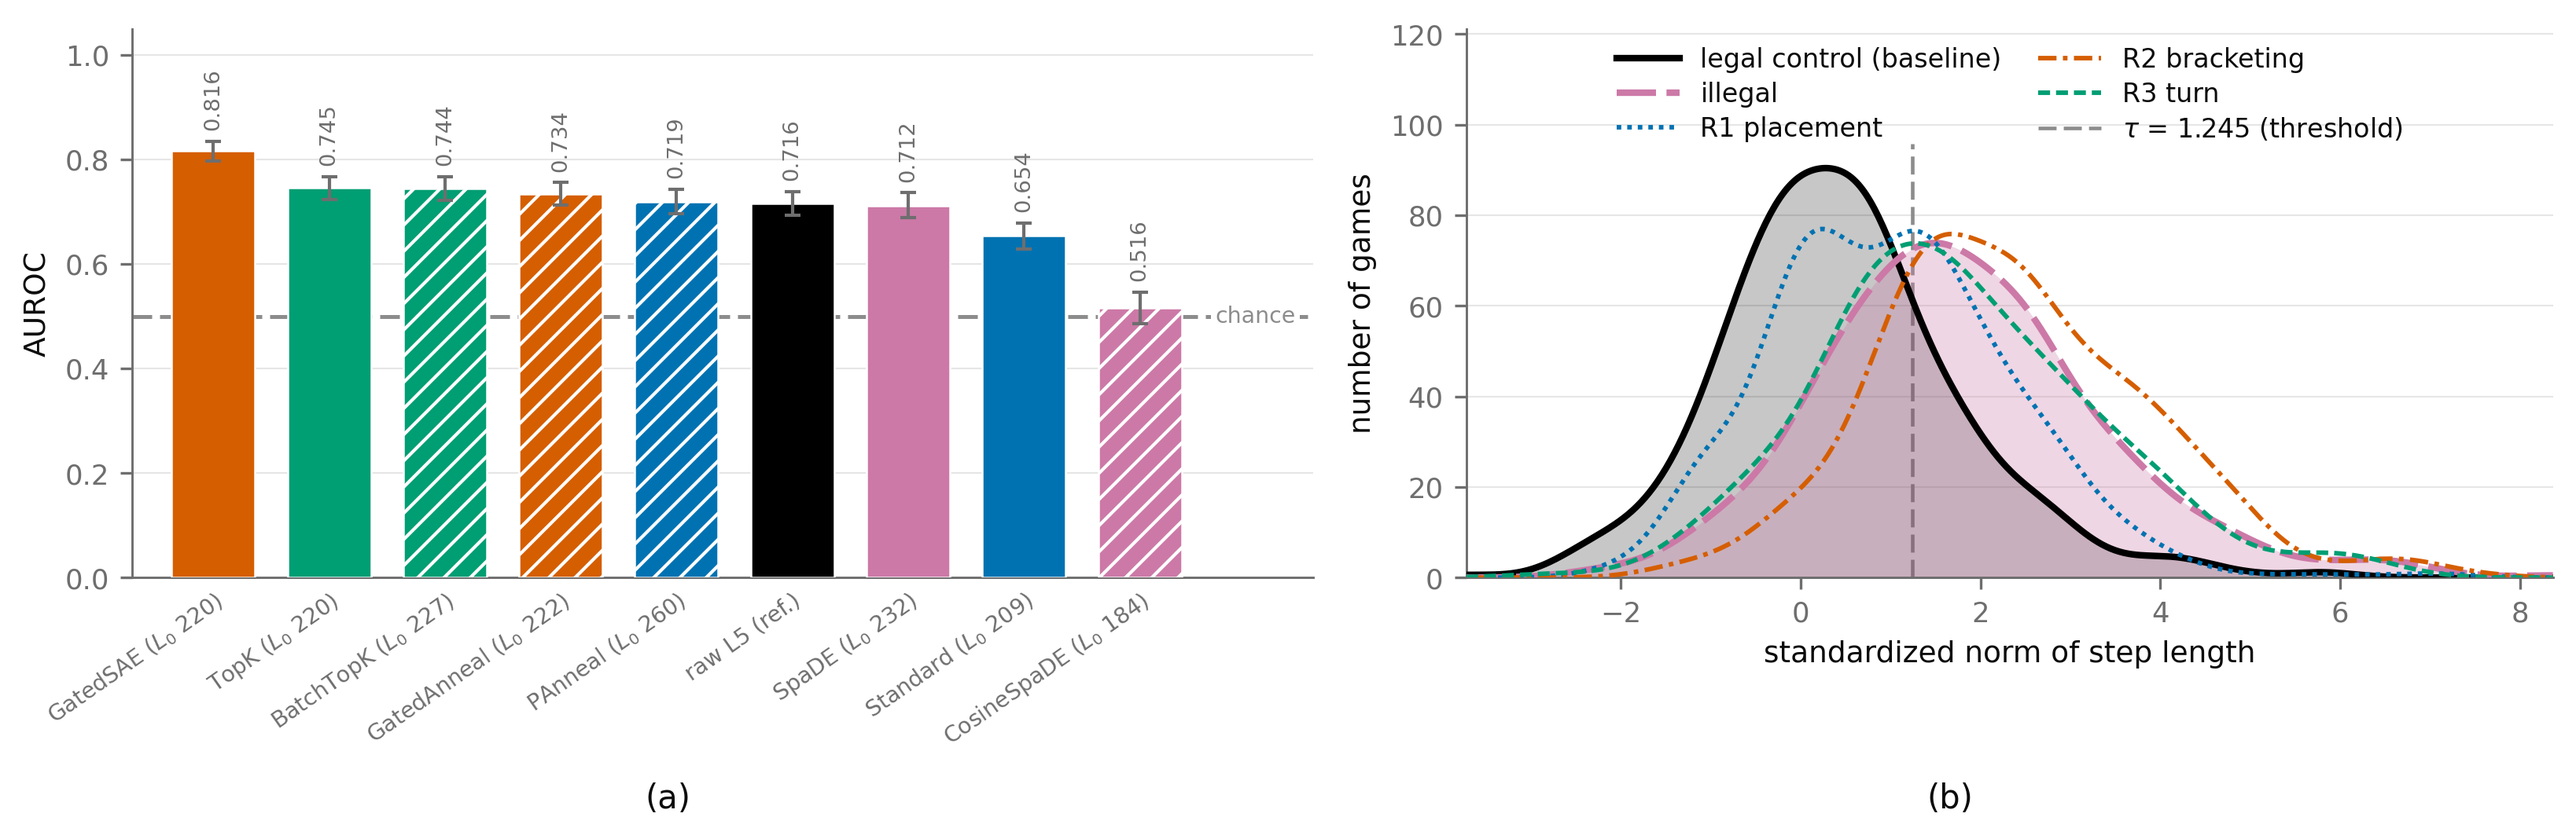
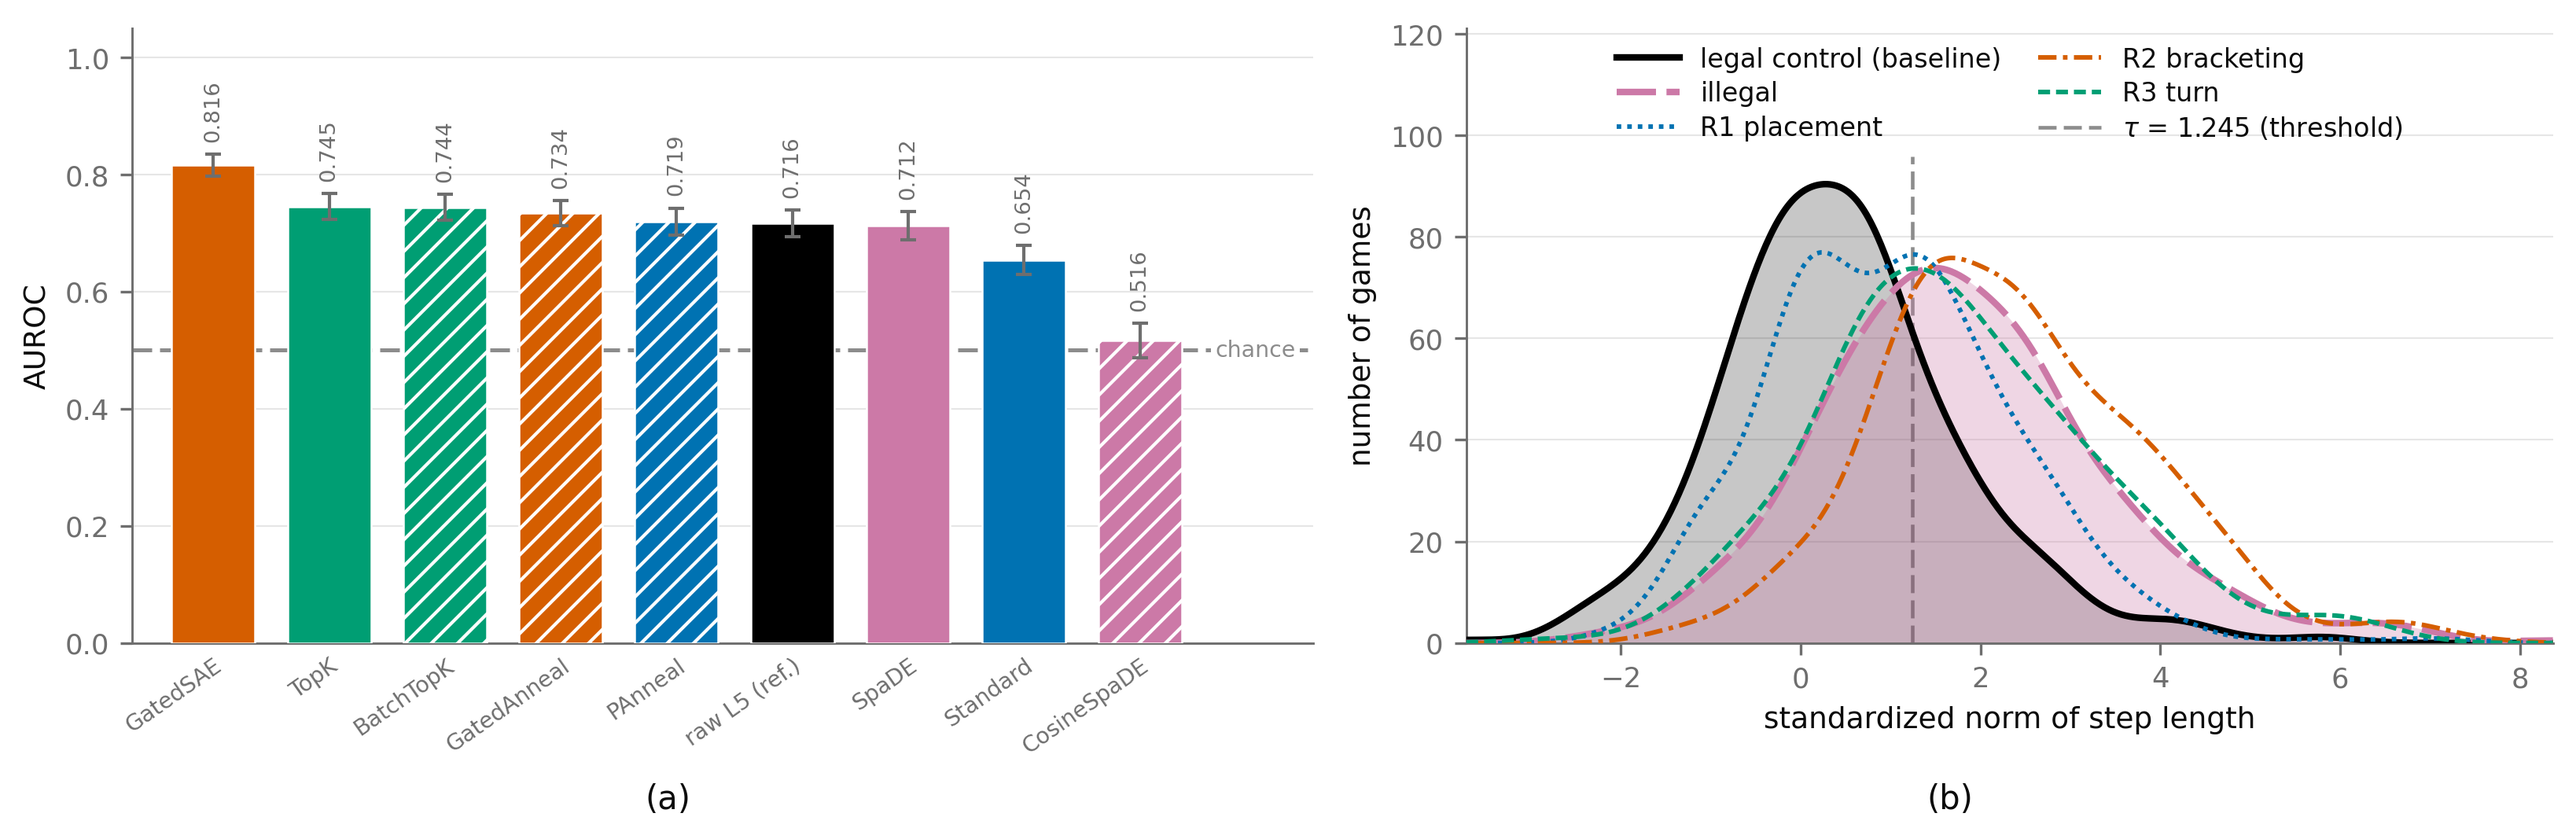
Drop the L0 from the L0-matched tick labels
Nine "(L_0 220)" suffixes on the x axis compete with the nine numbers the figure is
about, and they are the same number nine times to within the roster's 1.4x spread --
which is the point, so the axis is the wrong place to make it. Each pick's L0 is the
`l0` column of every _l0_matched CSV, and the changepoint README now tabulates the
eight beside the caveat that the match is on sparsity alone.

diff --git a/src/spade/l0_operating_point/roster.py b/src/spade/l0_operating_point/roster.py
@@ -54,10 +54,9 @@ L0 = {s.name: s.l0 for s in ROSTER}
 def styles() -> dict[str, dict]:
     """`SPACE_STYLE` plus one entry per L0-matched space.
 
-    The tick label carries the L0 the checkpoint was seated at, because "matched" is the
-    claim the figure makes and a reader has to be able to check how well it holds.
+    The tick label is the family name alone. Each pick's L0 is in `L0` here and in every
+    figure's CSV, which is where a reader checks how well "matched" holds -- on the axis it
+    is nine numbers competing with the nine the figure is actually about.
     """
-    matched = {s.name: {**SPACE_STYLE[s.family],
-                        "short": f"{SPACE_STYLE[s.family]['short']} ($L_0$ {s.l0:.0f})"}
-               for s in ROSTER}
+    matched = {s.name: dict(SPACE_STYLE[s.family]) for s in ROSTER}
     return SPACE_STYLE | matched

diff --git a/analysis/violation_divergence/changepoint_localization/README.md b/analysis/violation_divergence/changepoint_localization/README.md
@@ -147,7 +147,19 @@ bars is an architecture difference **and** an L0 difference, and this study cann
 one it measured -- note that the winner of the table above is the sparsest of the nine.
 `results/l0_operating_point/picks.csv` fixes that: one checkpoint per architecture, each the
 nearest-L0 member of its own grid to a shared target of L0 219.16, spanning 184-260 in
-practice.
+practice. The tick labels name the architecture only; the L0 each pick was seated at is the
+`l0` column of every `_l0_matched` CSV, and is:
+
+| pick | L0 | | pick | L0 |
+|---|---:|---|---|---:|
+| `standard/trainer25-v2` | 208.7 | | `BatchTopK-k220` | 226.7 |
+| `gated/trainer32` | 219.9 | | `SpaDE-lam0.001-gam0.005` | 232.1 |
+| `top_k/trainer_61` | 220.0 | | `p_anneal/trainer22` | 260.1 |
+| `gated_anneal/trainer25` | 221.7 | | `CosineSpaDE-beta1-gam0.05` | 183.8 |
+
+Matched on **sparsity only**: the eight still differ in reconstruction quality (`recon_f1`
+0.46-0.94), and Karvonen's five are fed the raw residual stream where ours take
+`scale*(x - mean)`, each as it was trained.
 
 `figures/changepoint_by_space_l0_matched.png` and
 `results/changepoint_localization_l0_matched.csv` are the same two panels over that roster.
